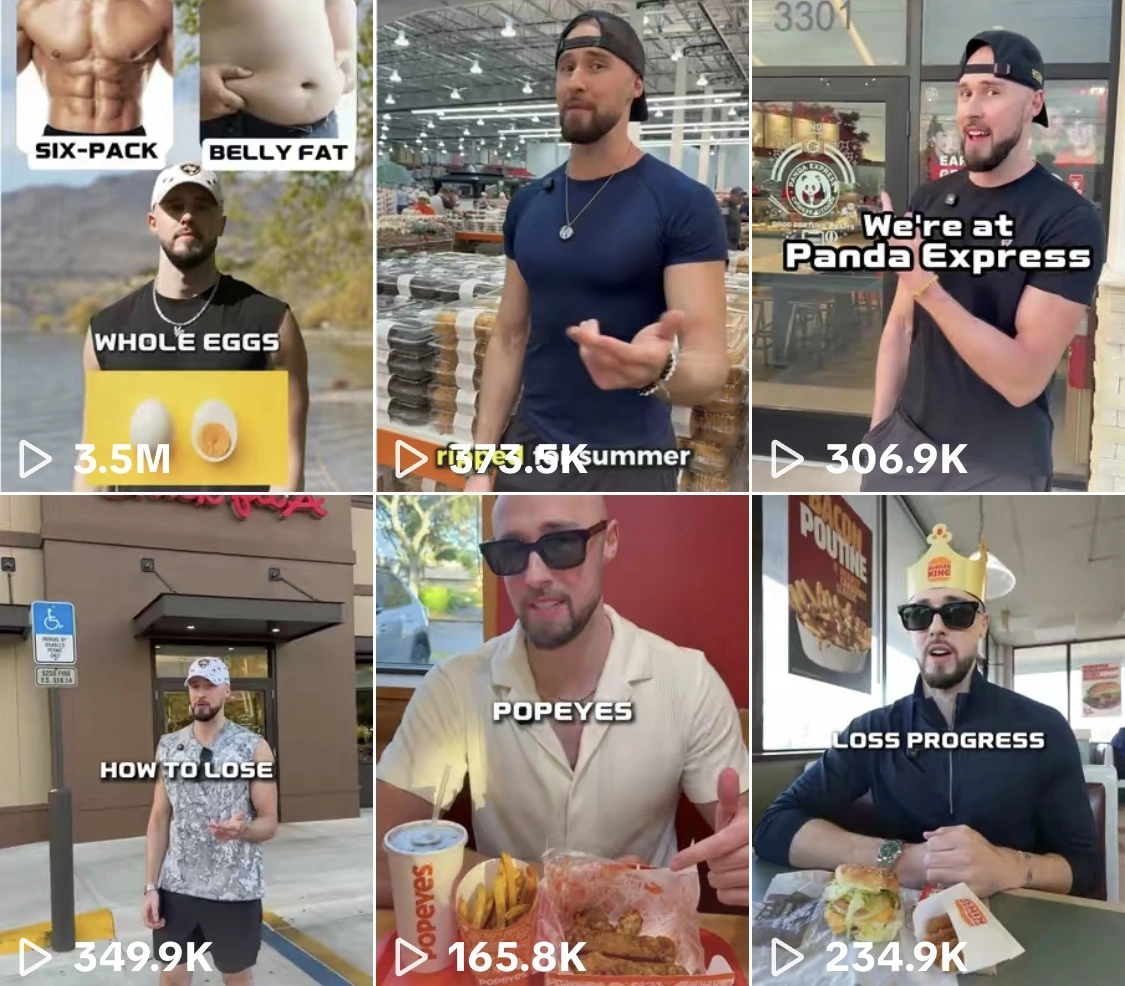
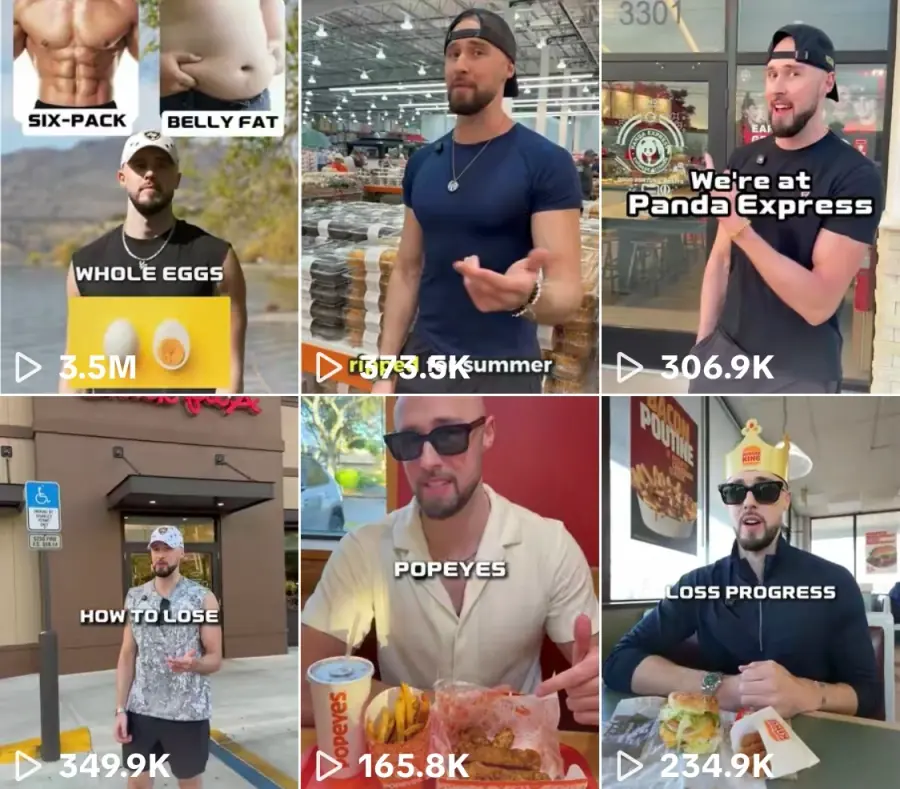
perf: eliminate render-blocking CSS (150ms), fix image width/height CLS, compress result-5 image 213KB->66KB

diff --git a/vite.config.ts b/vite.config.ts
@@ -1,11 +1,35 @@
-import { defineConfig } from 'vite';
+import { defineConfig, type Plugin } from 'vite';
 import react from '@vitejs/plugin-react';
 import tailwindcss from '@tailwindcss/vite';
+
+// ── Non-blocking CSS plugin ──────────────────────────────────────────────────
+// Vite injects the main CSS bundle as a synchronous <link rel="stylesheet">,
+// which blocks the browser from rendering ANYTHING until the CSS is downloaded.
+// This plugin converts it to a non-blocking preload (same trick as Google Fonts):
+//   rel="preload" as="style" onload="this.rel='stylesheet'"
+// Lighthouse reports this as saving ~150ms on mobile.
+function nonBlockingCssPlugin(): Plugin {
+  return {
+    name: 'non-blocking-css',
+    apply: 'build',
+    transformIndexHtml(html) {
+      // Match <link rel="stylesheet" crossorigin href="/assets/....css">
+      // and convert to a preload-then-apply pattern
+      return html.replace(
+        /<link rel="stylesheet" crossorigin href="(\/assets\/[^"]+\.css)">/g,
+        (_, href) =>
+          `<link rel="preload" as="style" crossorigin href="${href}" onload="this.onload=null;this.rel='stylesheet'">` +
+          `<noscript><link rel="stylesheet" crossorigin href="${href}"></noscript>`
+      );
+    },
+  };
+}
 
 export default defineConfig({
   plugins: [
     tailwindcss(),
     react(),
+    nonBlockingCssPlugin(),
     // javascriptObfuscator is disabled to prevent 2-3 second startup freeze and massive bundle bloat.
     // Built-in Terser minification/mangling below is more than enough for production performance and security.
   ],

diff --git a/src/components/sections/Results.tsx b/src/components/sections/Results.tsx
@@ -16,9 +16,11 @@ const cardVariants = {
 interface ResultItem {
   src: string;
   caption?: string;
+  width?: number;
+  height?: number;
 }
 
-function ResultImage({ src, caption, index, onClick }: { src: string; caption?: string; index: number; onClick: () => void }) {
+function ResultImage({ src, caption, index, onClick, width, height }: { src: string; caption?: string; index: number; onClick: () => void; width?: number; height?: number }) {
   return (
     <motion.div
       custom={index}
@@ -41,7 +43,11 @@ function ResultImage({ src, caption, index, onClick }: { src: string; caption?: 
       <img
         src={src}
         alt={caption ?? `Client result ${index + 1}`}
+        width={width}
+        height={height}
         style={{ width: '100%', height: 'auto', display: 'block' }}
+        loading="lazy"
+        decoding="async"
       />
       {caption && (
         <div style={{
@@ -119,6 +125,8 @@ export default function Results() {
                 key={item.src}
                 src={item.src}
                 caption={item.caption}
+                width={item.width}
+                height={item.height}
                 index={i}
                 onClick={() => setLightboxIndex(i)}
               />

diff --git a/src/components/ui/cards/ProfileCard.tsx b/src/components/ui/cards/ProfileCard.tsx
@@ -260,14 +260,17 @@ const ProfileCardComponent: React.FC<ProfileCardProps> = ({
                 className="avatar"
                 src={avatarUrl}
                 alt={`${name} avatar`}
+                width={120}
+                height={120}
                 loading="lazy"
+                decoding="async"
                 onError={e => { (e.target as HTMLImageElement).style.display = 'none'; }}
               />
               {showUserInfo && (
                 <div className="pc-user-info">
                   <div className="pc-user-details">
                     <div className="pc-mini-avatar">
-                      <img src={miniAvatarUrl || avatarUrl} alt={`${name} mini`} loading="lazy" />
+                      <img src={miniAvatarUrl || avatarUrl} alt={`${name} mini`} width={44} height={44} loading="lazy" decoding="async" />
                     </div>
                     <div className="pc-user-text">
                       <div className="pc-handle">@{handle}</div>

diff --git a/src/data/content.ts b/src/data/content.ts
@@ -444,11 +444,11 @@ export const RESULTS_SECTION = {
 } as const;
 
 export const RESULTS: ClientResult[] = [
-  { src: '/images/results/result-1.webp' },
-  { src: '/images/results/result-2.webp' },
-  { src: '/images/results/result-3.webp' },
-  { src: '/images/results/result-4.webp' },
-  { src: '/images/results/result-5.webp' },
+  { src: '/images/results/result-1.webp', width: 562, height: 1000 },
+  { src: '/images/results/result-2.webp', width: 411, height: 530 },
+  { src: '/images/results/result-3.webp', width: 492, height: 1000 },
+  { src: '/images/results/result-4.webp', width: 462, height: 1000 },
+  { src: '/images/results/result-5.webp', width: 900, height: 789 },
 ];
 
 // ── Before / After (color grading) ────────────────────────

diff --git a/src/components/sections/About.tsx b/src/components/sections/About.tsx
@@ -48,12 +48,15 @@ function ToolLogoTile({ img, label }: typeof TOOL_LOGOS[0]) {
       <img
         src={img}
         alt={label}
+        width={44}
+        height={44}
         style={{
           width: '100%',
           height: '100%',
           objectFit: 'contain',
         }}
         loading="lazy"
+        decoding="async"
       />
     </div>
   );

diff --git a/src/types/index.ts b/src/types/index.ts
@@ -65,4 +65,8 @@ export interface ClientResult {
   src: string;
   /** Optional caption displayed below the image */
   caption?: string;
+  /** Intrinsic image width in pixels — used to hint aspect ratio and prevent CLS */
+  width?: number;
+  /** Intrinsic image height in pixels — used to hint aspect ratio and prevent CLS */
+  height?: number;
 }
